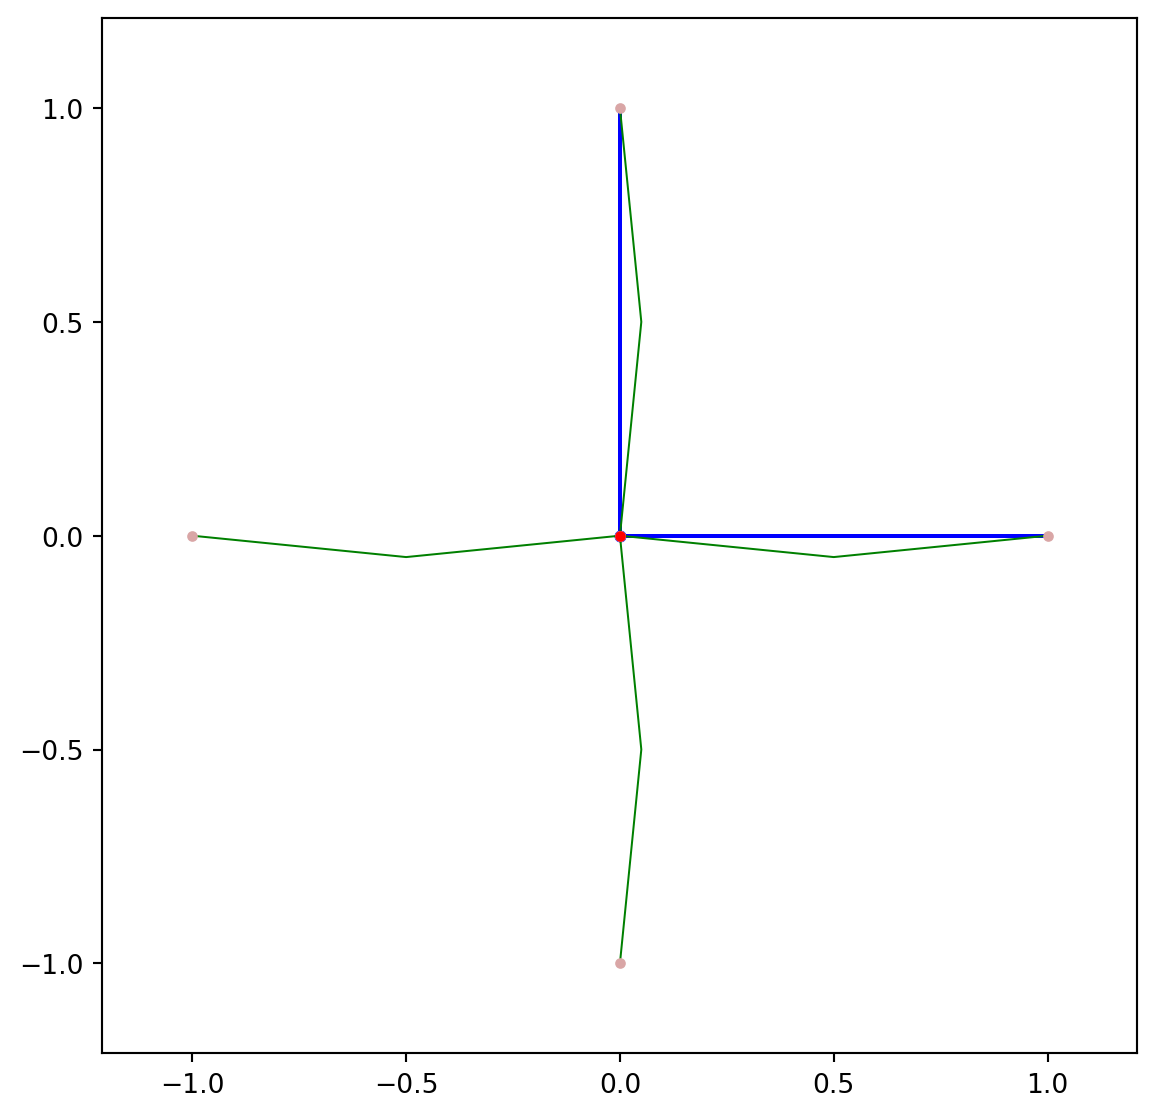
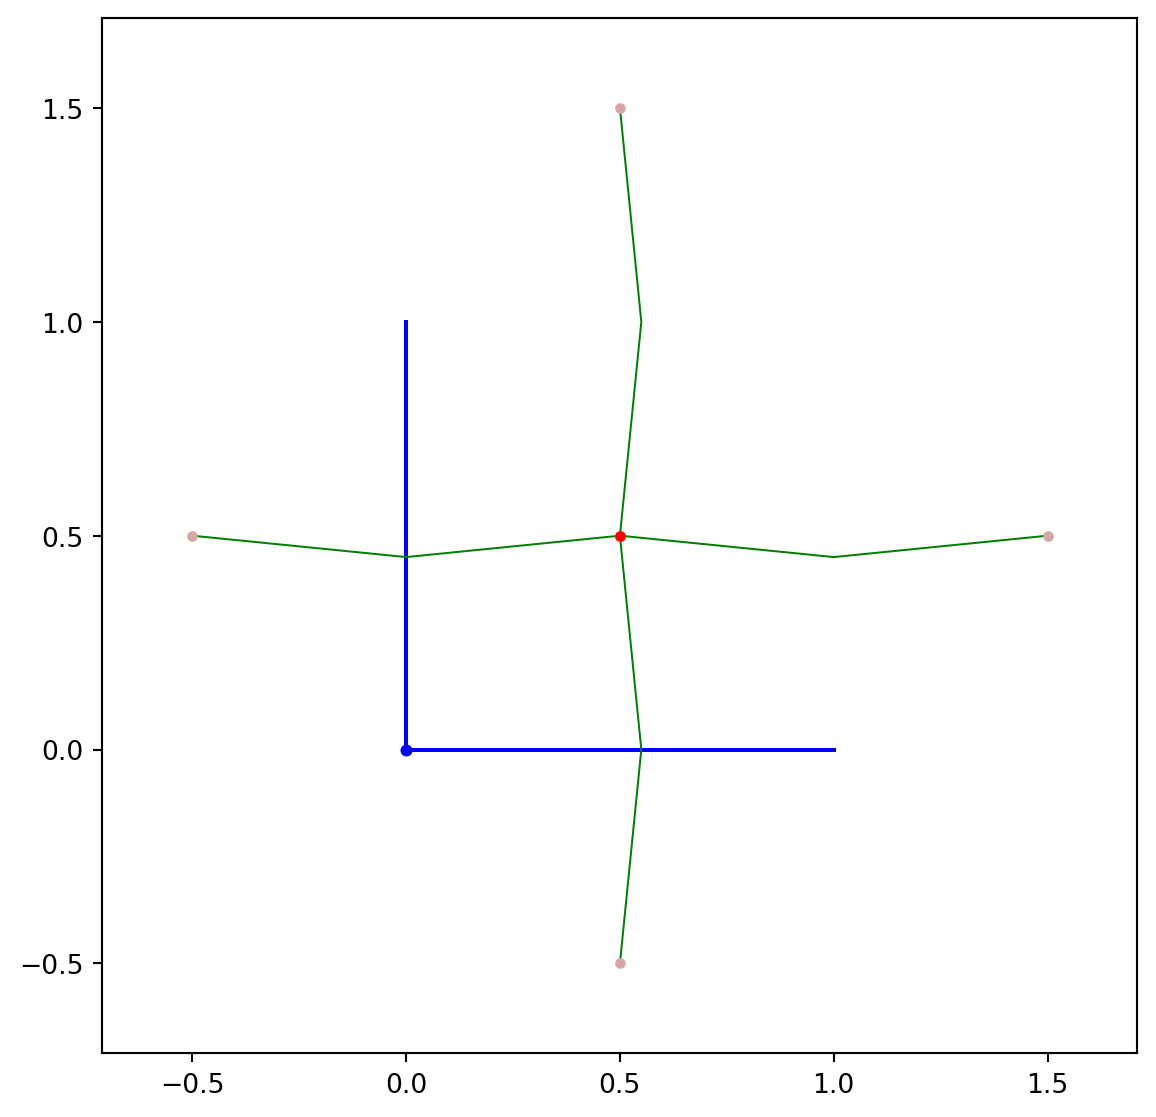
Se subió la clase completa

diff --git a/docs/clase3.html b/docs/clase3.html
@@ -252,7 +252,7 @@ window.Quarto = {
 <h2 data-number="6.1" class="anchored" data-anchor-id="hamiltoniano-de-amarre-fuerte-de-un-cristal-cuadrado-con-campo-magnético"><span class="header-section-number">6.1</span> Hamiltoniano de amarre fuerte de un cristal cuadrado con campo magnético</h2>
 <p>Buscamos describir una red cuadrada sobre la que actúa un campo magnético. Una red se define mediante dos vectores base <span class="math inline">\(\vec{a}_{1},\vec{a}_{2}\)</span>. Explítamente, una red es igual al conjunto de puntos de la forma <span class="math display">\[\vec{R} = n_{1} \vec{a}_{1} + n_{2}\vec{a}_{2},\]</span> donde <span class="math inline">\(n_{i}&nbsp;\in \mathbb{Z}\)</span>. Imaginamos que sobre cada punto de la red hay un orbital. A cada enlace entre dos órbitales le asociamos un hopping <span class="math inline">\(t\)</span>. Usualmente, sólo damos hoppings no nulos a los vecinos cercanos.</p>
 <p>PythTB nos permite implementar cada uno de estos ingredientes en un código.</p>
-<div id="34e7855a" class="cell" data-execution_count="1">
+<div id="169d405a" class="cell" data-execution_count="1">
 <div class="sourceCode cell-code" id="cb1"><pre class="sourceCode python code-with-copy"><code class="sourceCode python"><span id="cb1-1"><a href="#cb1-1" aria-hidden="true" tabindex="-1"></a><span class="im">from</span> pylab <span class="im">import</span> <span class="op">*</span></span>
 <span id="cb1-2"><a href="#cb1-2" aria-hidden="true" tabindex="-1"></a><span class="im">from</span> pythtb <span class="im">import</span> <span class="op">*</span></span></code><button title="Copy to Clipboard" class="code-copy-button"><i class="bi"></i></button></pre></div>
 </div>
@@ -260,13 +260,13 @@ window.Quarto = {
 <p>Ya con esto listo podemos definir un objeto <em>tb_model</em>. La entrada a este modelo son la dimensión del espacio k, la dimensión del espacio r, los vectores de red y la lista con la posición de los orbitales. Ya hecho el modelo, podemos añadir hoppings. Para ello se usa el método <em>set_hop</em>. Este método recibe el valor del hopping, el índice del primer orbital del enalce (en este caso sólo hay un orbital cuyo índice es <span class="math inline">\(i = 0\)</span>), el índice del segundo orbital en el enlace y el vector de red que apunta a la celda del segundo orbital.</p>
 <p>Para ver que los hoppings se hayan puesto bien usamos el método <em>visualize</em> sobre nuestro modelo. La entrada de este método es sobre que vectores base se hará la visualización. En este caso sólo hay dos vectores y por ello ponemos <span class="math inline">\((0,1)\)</span>.</p>
 <p>Notamos que por default pythtb añade los hoppings conjugados.</p>
-<div id="85798369" class="cell" data-execution_count="2">
+<div id="3ad856b1" class="cell" data-execution_count="2">
 <div class="sourceCode cell-code" id="cb2"><pre class="sourceCode python code-with-copy"><code class="sourceCode python"><span id="cb2-1"><a href="#cb2-1" aria-hidden="true" tabindex="-1"></a>a1  <span class="op">=</span> array([<span class="dv">1</span>,<span class="dv">0</span>])</span>
 <span id="cb2-2"><a href="#cb2-2" aria-hidden="true" tabindex="-1"></a>a2  <span class="op">=</span> array([<span class="dv">0</span>,<span class="dv">1</span>])</span>
 <span id="cb2-3"><a href="#cb2-3" aria-hidden="true" tabindex="-1"></a></span>
 <span id="cb2-4"><a href="#cb2-4" aria-hidden="true" tabindex="-1"></a>vectoresRed <span class="op">=</span> array([a1,a2]) <span class="co">#0*a1 + 0*a2</span></span>
 <span id="cb2-5"><a href="#cb2-5" aria-hidden="true" tabindex="-1"></a></span>
-<span id="cb2-6"><a href="#cb2-6" aria-hidden="true" tabindex="-1"></a>sitio <span class="op">=</span> array([<span class="dv">0</span>,<span class="dv">0</span>]) <span class="co">#Sitio del orbital</span></span>
+<span id="cb2-6"><a href="#cb2-6" aria-hidden="true" tabindex="-1"></a>sitio <span class="op">=</span> array([<span class="dv">1</span><span class="op">/</span><span class="dv">2</span>,<span class="dv">1</span><span class="op">/</span><span class="dv">2</span>]) <span class="co">#Sitio del orbital</span></span>
 <span id="cb2-7"><a href="#cb2-7" aria-hidden="true" tabindex="-1"></a></span>
 <span id="cb2-8"><a href="#cb2-8" aria-hidden="true" tabindex="-1"></a>orbitales <span class="op">=</span> array([sitio]) <span class="co">#Lista con todos los itios. </span></span>
 <span id="cb2-9"><a href="#cb2-9" aria-hidden="true" tabindex="-1"></a></span>
@@ -274,7 +274,7 @@ window.Quarto = {
 <span id="cb2-11"><a href="#cb2-11" aria-hidden="true" tabindex="-1"></a>cuadrada <span class="op">=</span> tb_model(<span class="dv">2</span>,<span class="dv">2</span>, vectoresRed, orbitales)</span>
 <span id="cb2-12"><a href="#cb2-12" aria-hidden="true" tabindex="-1"></a></span>
 <span id="cb2-13"><a href="#cb2-13" aria-hidden="true" tabindex="-1"></a><span class="co">#Definimos los hoppings.</span></span>
-<span id="cb2-14"><a href="#cb2-14" aria-hidden="true" tabindex="-1"></a>t <span class="op">=</span> <span class="dv">0</span></span>
+<span id="cb2-14"><a href="#cb2-14" aria-hidden="true" tabindex="-1"></a>t <span class="op">=</span> <span class="dv">1</span></span>
 <span id="cb2-15"><a href="#cb2-15" aria-hidden="true" tabindex="-1"></a>cuadrada.set_hop(t,<span class="dv">0</span>,<span class="dv">0</span>,[<span class="dv">1</span>,<span class="dv">0</span>])</span>
 <span id="cb2-16"><a href="#cb2-16" aria-hidden="true" tabindex="-1"></a><span class="co"># Enlace entre orbital 0 y orbital 0 desplazo por 1*a1 + 0*a2</span></span>
 <span id="cb2-17"><a href="#cb2-17" aria-hidden="true" tabindex="-1"></a>cuadrada.set_hop(t,<span class="dv">0</span>,<span class="dv">0</span>,[<span class="dv">0</span>,<span class="dv">1</span>])</span>
@@ -288,6 +288,90 @@ window.Quarto = {
 <p><img src="clase3_files/figure-html/cell-3-output-1.png" width="578" height="559" class="figure-img"></p>
 </figure>
 </div>
+</div>
+</div>
+<p>También podemos crear superceldas, i.e., repeticiones de una celda unitaria. Para ello usamos la función <em>make_supercell</em>. La entrada de la celda es la modificación sobre los vectores de red.</p>
+<div id="a0c310e7" class="cell" data-execution_count="3">
+<div class="sourceCode cell-code" id="cb3"><pre class="sourceCode python code-with-copy"><code class="sourceCode python"><span id="cb3-1"><a href="#cb3-1" aria-hidden="true" tabindex="-1"></a>cuadrada_grande <span class="op">=</span> cuadrada.make_supercell([[<span class="dv">10</span>,<span class="dv">5</span>],[<span class="dv">0</span>,<span class="dv">10</span>]])</span>
+<span id="cb3-2"><a href="#cb3-2" aria-hidden="true" tabindex="-1"></a><span class="co"># [10,0] significa que el nuevo vector 1 es 10*a1 + 0*a2</span></span>
+<span id="cb3-3"><a href="#cb3-3" aria-hidden="true" tabindex="-1"></a><span class="co"># [0,10] significa que el nuevo vector 2 es 0*a1 + 10*a2</span></span>
+<span id="cb3-4"><a href="#cb3-4" aria-hidden="true" tabindex="-1"></a></span>
+<span id="cb3-5"><a href="#cb3-5" aria-hidden="true" tabindex="-1"></a>cuadrada_grande.visualize(<span class="dv">0</span>,<span class="dv">1</span>)</span></code><button title="Copy to Clipboard" class="code-copy-button"><i class="bi"></i></button></pre></div>
+<div class="cell-output cell-output-display">
+<div>
+<figure class="figure">
+<p><img src="clase3_files/figure-html/cell-4-output-1.png" width="576" height="559" class="figure-img"></p>
+</figure>
+</div>
+</div>
+</div>
+<p>De la supercelda podemos cortar y hacer finita la celda en una dimensión. La entrada del vector Para ello usamos <em>cut_piece</em>.</p>
+<div id="67d16042" class="cell" data-execution_count="4">
+<div class="sourceCode cell-code" id="cb4"><pre class="sourceCode python code-with-copy"><code class="sourceCode python"><span id="cb4-1"><a href="#cb4-1" aria-hidden="true" tabindex="-1"></a>cuadrada_cortada <span class="op">=</span> cuadrada_grande.cut_piece(<span class="dv">2</span>,<span class="dv">1</span>)</span>
+<span id="cb4-2"><a href="#cb4-2" aria-hidden="true" tabindex="-1"></a><span class="co"># El (1,0) es cortar 1 vez en el vector a1. En a2 sigue siemdo finito. </span></span>
+<span id="cb4-3"><a href="#cb4-3" aria-hidden="true" tabindex="-1"></a>cuadrada_cortada.visualize(<span class="dv">0</span>,<span class="dv">1</span>)</span></code><button title="Copy to Clipboard" class="code-copy-button"><i class="bi"></i></button></pre></div>
+<div class="cell-output cell-output-display">
+<div>
+<figure class="figure">
+<p><img src="clase3_files/figure-html/cell-5-output-1.png" width="563" height="559" class="figure-img"></p>
+</figure>
+</div>
+</div>
+</div>
+<p>Si aplicamos <em>cut_piece</em> dos veces podemos obtener un sistema finito.</p>
+<div id="a94fdbff" class="cell" data-execution_count="5">
+<div class="sourceCode cell-code" id="cb5"><pre class="sourceCode python code-with-copy"><code class="sourceCode python"><span id="cb5-1"><a href="#cb5-1" aria-hidden="true" tabindex="-1"></a>cuadrada_cortada_cortada <span class="op">=</span> cuadrada_cortada.cut_piece(<span class="dv">1</span>,<span class="dv">0</span>)</span>
+<span id="cb5-2"><a href="#cb5-2" aria-hidden="true" tabindex="-1"></a><span class="co"># El (0,2) es cortar 2 vez en el vector a1. En a2 sigue siemdo finito. </span></span>
+<span id="cb5-3"><a href="#cb5-3" aria-hidden="true" tabindex="-1"></a>cuadrada_cortada_cortada.visualize(<span class="dv">0</span>,<span class="dv">1</span>)</span></code><button title="Copy to Clipboard" class="code-copy-button"><i class="bi"></i></button></pre></div>
+<div class="cell-output cell-output-display">
+<div>
+<figure class="figure">
+<p><img src="clase3_files/figure-html/cell-6-output-1.png" width="563" height="559" class="figure-img"></p>
+</figure>
+</div>
+</div>
+</div>
+<p>A este sistema finito podemos extraerle los eigenvalores usando <em>solve_all</em>.</p>
+<div id="ef2bded0" class="cell" data-execution_count="6">
+<div class="sourceCode cell-code" id="cb6"><pre class="sourceCode python code-with-copy"><code class="sourceCode python"><span id="cb6-1"><a href="#cb6-1" aria-hidden="true" tabindex="-1"></a>eigenvalores <span class="op">=</span> cuadrada_cortada_cortada.solve_all()</span></code><button title="Copy to Clipboard" class="code-copy-button"><i class="bi"></i></button></pre></div>
+</div>
+<div id="f4d1d3f4" class="cell" data-execution_count="7">
+<div class="sourceCode cell-code" id="cb7"><pre class="sourceCode python code-with-copy"><code class="sourceCode python"><span id="cb7-1"><a href="#cb7-1" aria-hidden="true" tabindex="-1"></a><span class="bu">print</span>(eigenvalores)</span></code><button title="Copy to Clipboard" class="code-copy-button"><i class="bi"></i></button></pre></div>
+<div class="cell-output cell-output-stdout">
+<pre><code>[-3.89411762 -3.82175882 -3.71036166 -3.65779542 -3.57679156 -3.57131144
+ -3.43806795 -3.41566518 -3.29027691 -3.25154691 -3.24363459 -3.1964165
+ -3.09442761 -3.0355232  -3.02371054 -2.90542867 -2.82337477 -2.81583896
+ -2.79575361 -2.73413089 -2.65383481 -2.63876333 -2.57075866 -2.54540419
+ -2.45123791 -2.41984602 -2.31265393 -2.30655581 -2.25451887 -2.24752721
+ -2.17959015 -2.14341664 -2.0866075  -2.04617036 -2.0253331  -1.94225044
+ -1.91246666 -1.87261574 -1.77730082 -1.76234663 -1.72928552 -1.6895984
+ -1.6488729  -1.63744382 -1.57787293 -1.56380742 -1.49318634 -1.48568002
+ -1.43921542 -1.39835991 -1.34676506 -1.32473385 -1.2334557  -1.21176054
+ -1.20839887 -1.16005534 -1.1458142  -1.08947669 -1.07294358 -1.04274481
+ -1.01953288 -0.94478036 -0.94214863 -0.90828408 -0.88795898 -0.83268373
+ -0.81969656 -0.78317441 -0.6924565  -0.69192649 -0.67593268 -0.66646876
+ -0.630465   -0.60212066 -0.57112216 -0.56513183 -0.53132837 -0.51453263
+ -0.44844607 -0.43289356 -0.3763432  -0.37245799 -0.35154158 -0.3445604
+ -0.32042297 -0.29418364 -0.28654511 -0.24086137 -0.22858975 -0.19228502
+ -0.13659798 -0.13269269 -0.12107344 -0.11697869 -0.11611335 -0.08064552
+ -0.07441008 -0.06016294 -0.04582081 -0.01538296  0.01538296  0.04582081
+  0.06016294  0.07441008  0.08064552  0.11611335  0.11697869  0.12107344
+  0.13269269  0.13659798  0.19228502  0.22858975  0.24086137  0.28654511
+  0.29418364  0.32042297  0.3445604   0.35154158  0.37245799  0.3763432
+  0.43289356  0.44844607  0.51453263  0.53132837  0.56513183  0.57112216
+  0.60212066  0.630465    0.66646876  0.67593268  0.69192649  0.6924565
+  0.78317441  0.81969656  0.83268373  0.88795898  0.90828408  0.94214863
+  0.94478036  1.01953288  1.04274481  1.07294358  1.08947669  1.1458142
+  1.16005534  1.20839887  1.21176054  1.2334557   1.32473385  1.34676506
+  1.39835991  1.43921542  1.48568002  1.49318634  1.56380742  1.57787293
+  1.63744382  1.6488729   1.6895984   1.72928552  1.76234663  1.77730082
+  1.87261574  1.91246666  1.94225044  2.0253331   2.04617036  2.0866075
+  2.14341664  2.17959015  2.24752721  2.25451887  2.30655581  2.31265393
+  2.41984602  2.45123791  2.54540419  2.57075866  2.63876333  2.65383481
+  2.73413089  2.79575361  2.81583896  2.82337477  2.90542867  3.02371054
+  3.0355232   3.09442761  3.1964165   3.24363459  3.25154691  3.29027691
+  3.41566518  3.43806795  3.57131144  3.57679156  3.65779542  3.71036166
+  3.82175882  3.89411762]</code></pre>
 </div>
 </div>
 
